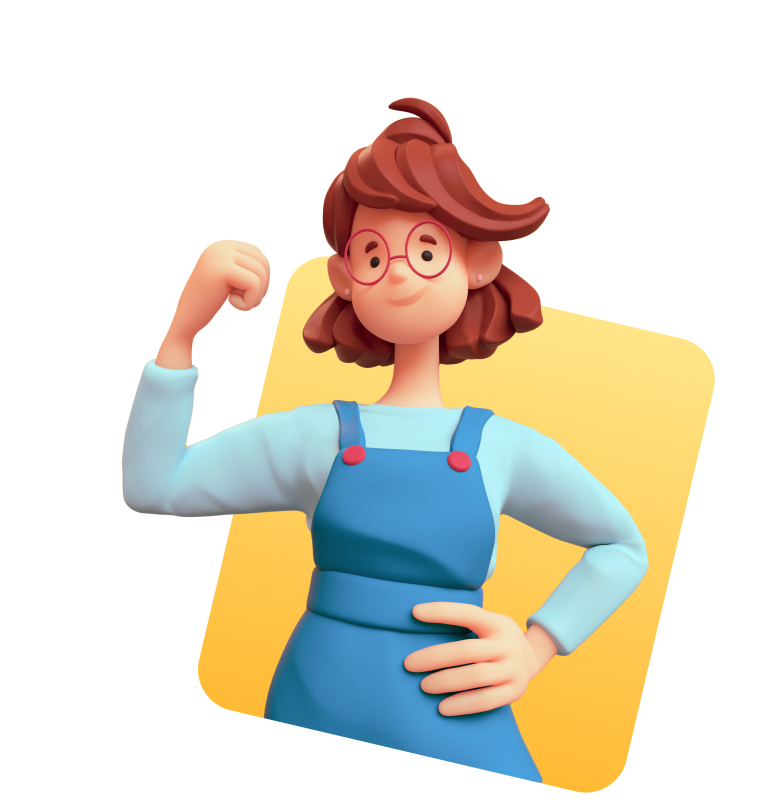
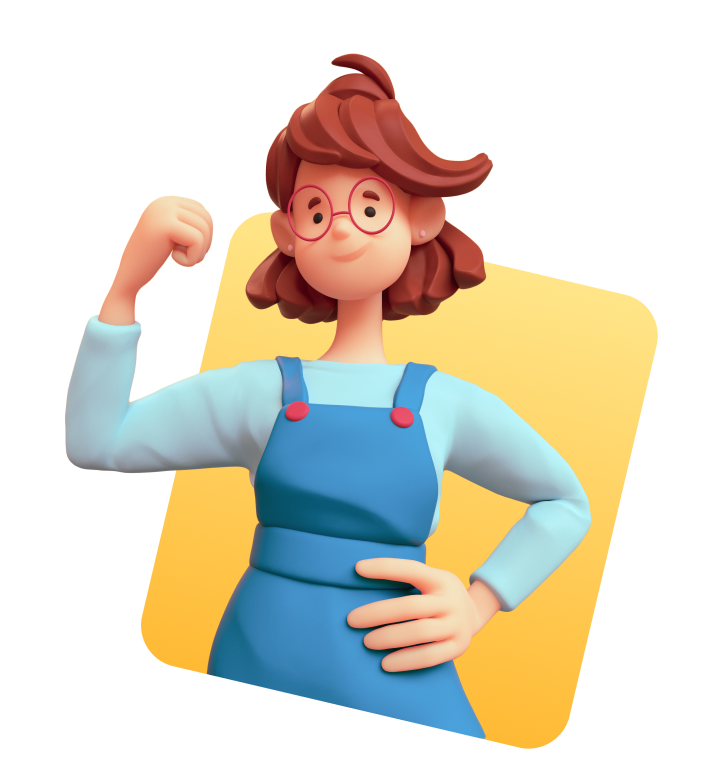
add illustration component

Changed region(s): [[0.0931, 0.0607, 0.9309, 1.0], [0.8688, 0.5765, 0.8999, 0.6979], [0.4034, 0.9103, 0.5275, 0.9406]]

diff --git a/objects/rectangles/rect_fill.tsx b/objects/rectangles/rect_fill.tsx
@@ -1,0 +1,40 @@
+import React from "react";
+
+function Rect_fill() {
+  return (
+    <svg
+      xmlns="http://www.w3.org/2000/svg"
+      width="550"
+      height="569"
+      fill="none"
+      viewBox="0 0 550 569"
+    >
+      <rect
+        width="439.542"
+        height="465.791"
+        x="1.583"
+        y="117.715"
+        stroke="url(#paint0_linear)"
+        strokeOpacity="0.5"
+        strokeWidth="1.961"
+        rx="38.23"
+        transform="rotate(-15.272 1.583 117.715)"
+      ></rect>
+      <defs>
+        <linearGradient
+          id="paint0_linear"
+          x1="62.379"
+          x2="83.512"
+          y1="423.364"
+          y2="118.263"
+          gradientUnits="userSpaceOnUse"
+        >
+          <stop stopColor="#FFE384"></stop>
+          <stop offset="1" stopColor="#FFE588" stopOpacity="0"></stop>
+        </linearGradient>
+      </defs>
+    </svg>
+  );
+}
+
+export default Rect_fill;

diff --git a/objects/rectangles/rect_1.tsx b/objects/rectangles/rect_1.tsx
@@ -1,0 +1,38 @@
+function Rect_1() {
+  return (
+    <svg
+      xmlns="http://www.w3.org/2000/svg"
+      width="550"
+      height="569"
+      fill="none"
+      viewBox="0 0 550 569"
+    >
+      <rect
+        width="439.542"
+        height="465.791"
+        x="1.583"
+        y="117.715"
+        stroke="url(#paint0_linear)"
+        strokeOpacity="0.5"
+        strokeWidth="1.961"
+        rx="38.23"
+        transform="rotate(-15.272 1.583 117.715)"
+      ></rect>
+      <defs>
+        <linearGradient
+          id="paint0_linear"
+          x1="62.379"
+          x2="83.512"
+          y1="423.364"
+          y2="118.263"
+          gradientUnits="userSpaceOnUse"
+        >
+          <stop stopColor="#FFE384"></stop>
+          <stop offset="1" stopColor="#FFE588" stopOpacity="0"></stop>
+        </linearGradient>
+      </defs>
+    </svg>
+  );
+}
+
+export default Rect_1;

diff --git a/objects/rectangles/rect_2.tsx b/objects/rectangles/rect_2.tsx
@@ -1,0 +1,38 @@
+function Rect_2() {
+  return (
+    <svg
+      xmlns="http://www.w3.org/2000/svg"
+      width="550"
+      height="569"
+      fill="none"
+      viewBox="0 0 550 569"
+    >
+      <rect
+        width="439.542"
+        height="465.791"
+        x="1.583"
+        y="117.715"
+        stroke="url(#paint0_linear)"
+        strokeOpacity="0.5"
+        strokeWidth="1.961"
+        rx="38.23"
+        transform="rotate(-15.272 1.583 117.715)"
+      ></rect>
+      <defs>
+        <linearGradient
+          id="paint0_linear"
+          x1="62.379"
+          x2="83.512"
+          y1="423.364"
+          y2="118.263"
+          gradientUnits="userSpaceOnUse"
+        >
+          <stop stopColor="#FFE384"></stop>
+          <stop offset="1" stopColor="#FFE588" stopOpacity="0"></stop>
+        </linearGradient>
+      </defs>
+    </svg>
+  );
+}
+
+export default Rect_2;

diff --git a/objects/rectangles/rect_3.tsx b/objects/rectangles/rect_3.tsx
@@ -1,0 +1,38 @@
+function Rect_3() {
+  return (
+    <svg
+      xmlns="http://www.w3.org/2000/svg"
+      width="550"
+      height="569"
+      fill="none"
+      viewBox="0 0 550 569"
+    >
+      <rect
+        width="439.542"
+        height="465.791"
+        x="1.583"
+        y="117.715"
+        stroke="url(#paint0_linear)"
+        strokeOpacity="0.5"
+        strokeWidth="1.961"
+        rx="38.23"
+        transform="rotate(-15.272 1.583 117.715)"
+      ></rect>
+      <defs>
+        <linearGradient
+          id="paint0_linear"
+          x1="62.379"
+          x2="83.512"
+          y1="423.364"
+          y2="118.263"
+          gradientUnits="userSpaceOnUse"
+        >
+          <stop stopColor="#FFE384"></stop>
+          <stop offset="1" stopColor="#FFE588" stopOpacity="0"></stop>
+        </linearGradient>
+      </defs>
+    </svg>
+  );
+}
+
+export default Rect_3;

diff --git a/components/hero/hero.tsx b/components/hero/hero.tsx
@@ -1,5 +1,6 @@
 import Button from "../../ui/button/button";
 import classes from "./hero.module.scss";
+import Illustration from "./illustration/illustration";
 import Title from "./title/title";
 
 const Hero = () => {
@@ -11,7 +12,9 @@ const Hero = () => {
             <Title />
             <Button label="Discover" />
           </div>
-          <div className={classes.img}>{/* Illustration */}</div>
+          <div className={classes.img}>
+            <Illustration />
+          </div>
         </div>
       </div>
     </section>

diff --git a/components/hero/illustration/illustration.tsx b/components/hero/illustration/illustration.tsx
@@ -1,7 +1,17 @@
-import classes from "./illustration.module.css";
+import Image from "next/image";
+import classes from "./illustration.module.scss";
 
 const Illustration = () => {
-  return <div className={classes.illustration}></div>;
+  return (
+    <div className={classes.illustration}>
+      <Image
+        src="/images/hero/hero.png"
+        width={629.51}
+        height={680.25}
+        layout="responsive"
+      />
+    </div>
+  );
 };
 
 export default Illustration;

diff --git a/components/hero/hero.module.scss b/components/hero/hero.module.scss
@@ -1,17 +1,18 @@
 .hero {
+  margin-top: 3rem;
   .content {
     display: flex;
     justify-content: space-between;
     align-items: center;
     .main {
-      width: 60%;
+      width: 55%;
       h1 {
         font-size: 80px;
       }
     }
     .img {
-      width: 40%;
-      margin-top: -5rem;
+      width: 58%;
+      margin-top: -7rem;
       margin-right: -4rem;
     }
   }

diff --git a/components/services/services.tsx b/components/services/services.tsx
@@ -1,0 +1,7 @@
+import classes from "./services.module.scss";
+
+const Services = () => {
+  return <section className={classes.services}></section>;
+};
+
+export default Services;

diff --git a/styles/main.global.scss b/styles/main.global.scss
@@ -50,7 +50,7 @@ body {
 
   .container_md {
     width: 99%;
-    max-width: 1296.98px;
+    max-width: 1300px;
     margin: auto;
   }
   .container_lg {
